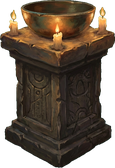
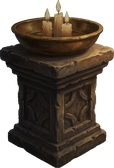
Deel 2: staf-glinster op de bol (hoger + kleiner), altaar met kaarsen in de schaal + schaduw links, Finn & tovenaar groter

diff --git a/games/ravenholt-deel2/js/data.js b/games/ravenholt-deel2/js/data.js
@@ -14,7 +14,7 @@ const GAME = {
   title:      { nl: 'Fluisteringen van Ravenholt — Deel 2', en: 'Whispers of Ravenholt — Part 2' },
   titleLines: { nl: ['Fluisteringen', 'van Ravenholt', '· Deel 2 ·'], en: ['Whispers of', 'Ravenholt', '· Part 2 ·'] },
   startScene: 'courtyard',
-  assetVer: '185',
+  assetVer: '187',
 
   /* Finn — vaste figuur: roodharige jongen, blauwe kapmantel, leren tas, houten staf.
      idle = hero, lopen = 4-frame loopsheet (heroWalkSheet), zwaaien = heroWave.
@@ -802,7 +802,7 @@ const GAME = {
       },
       playerStart: { x: 300, y: 298 },
       spawnFrom: { garden: { x: 300, y: 298 } },
-      depth: { far: 210, near: 320, sFar: 0.86, sNear: 1.32 },   // Finn duidelijk groter in de zaal
+      depth: { far: 210, near: 320, sFar: 0.96, sNear: 1.46 },   // Finn duidelijk groter in de zaal
       walkable: [
         { x: 64, y: 250, w: 440, h: 58 },                  // open vloer/tapijt voor de lessenaar
         { x: 150, y: 224, w: 280, h: 30 }                  // smalle strook richting de lessenaar
@@ -815,11 +815,11 @@ const GAME = {
       overlays: [],
       fx: {
         bookSparkle: { x: 278, y: 150, r: 24, doneFlag: 'altarSolved' },   // het boek geeft licht: zachte gloed + sparkles, tot het zegel is opgelost
-        mageGlow: { x: 150, y: 205, r: 15, a: 0.42, hideFlag: 'wizardTripping' },   // paars-blauwe gloed van de tovenaarsstaf (dooft tijdens de trance)
-        candleBowl: { x: 110, y: 262, w: 46, h: 66, img: 'assets/art/altar-censer.png', smokeFlag: 'wizardTripping' }   // klein altaar met bronzen schaal + kaarsen links van de tovenaar; lichte rook altijd, zwaar zodra de paddenstoelen erin gaan
+        mageGlow: { x: 142, y: 129, r: 10, a: 0.42, sparkle: true, hideFlag: 'wizardTripping' },   // paars-blauwe glinster op de bol van de tovenaarsstaf (dooft tijdens de trance)
+        candleBowl: { x: 94, y: 262, w: 46, h: 66, img: 'assets/art/altar-censer.png', smokeFlag: 'wizardTripping' }   // klein altaar met bronzen schaal + kaarsen links van de tovenaar; lichte rook altijd, zwaar zodra de paddenstoelen erin gaan
       },
       npcs: [
-        { id: 'librarian', sprite: 'librarian', blinkSprite: 'librarian-sleep', idleBreathe: true, x: 190, y: 263, scale: 0.9, aweSwayMul: 3.2, flip: false, filter: 'brightness(0.84) saturate(1.14)', aweSprite: 'librarian-sleep', aweFlag: 'wizardTripping' },   // de boze tovenaar (mad-wizard), kijkt naar RECHTS; knippert af en toe met de ogen; na de paddenstoelen valt hij in trance/slaap (ogen dicht) + dromerig waggelen
+        { id: 'librarian', sprite: 'librarian', blinkSprite: 'librarian-sleep', idleBreathe: true, x: 192, y: 264, scale: 1.02, aweSwayMul: 3.2, flip: false, filter: 'brightness(0.84) saturate(1.14)', aweSprite: 'librarian-sleep', aweFlag: 'wizardTripping' },   // de boze tovenaar (mad-wizard), kijkt naar RECHTS; knippert af en toe met de ogen; na de paddenstoelen valt hij in trance/slaap (ogen dicht) + dromerig waggelen
         { id: 'libRaven', sprite: 'ravenPerch', x: 366, y: 155, scale: 1.02, flip: false, peck: true, peckAmt: 0.3 }                               // de raaf op de vensterbank — flink groter, 5px lager
       ],
       worldItems: [],

diff --git a/games/ravenholt-deel2/js/engine.js b/games/ravenholt-deel2/js/engine.js
@@ -1604,7 +1604,7 @@
       const W = cb.w || 44, H = cb.h || 64;
       const topY = baseY - H;
       if (ready(cb._img)) fctx.drawImage(cb._img, cx - W / 2, topY, W, H);
-      const bowlY = topY + H * 0.30;                    // hoogte van de schaal-rand
+      const bowlY = topY + H * 0.24;                    // hoogte van de kaars-vlammen in de schaal
       const heavy = cb.smokeFlag && state.flags[cb.smokeFlag];
       /* smeulende paddenstoelen-gloed in de schaal (alleen zwaar) */
       if (heavy) {
@@ -1614,8 +1614,8 @@
           fctx.fillRect(gx, bowlY - 1, 2, 2);
         }
       }
-      /* flikkerende vlammetjes-effect op de kaarsen (rond de rand) */
-      const cands = [[-0.28, 0.02], [0, -0.04], [0.28, 0.02]];
+      /* flikkerende vlammetjes-effect op de drie kaarsen ín de schaal (geclusterd in het midden) */
+      const cands = [[-0.10, 0.03], [0, -0.03], [0.10, 0.03]];
       for (let i = 0; i < cands.length; i++) {
         const fx0 = cx + cands[i][0] * W, fy0 = bowlY + cands[i][1] * H;
         const fl = 0.6 + 0.4 * Math.sin(now / (110 + i * 41) + i * 2);
@@ -1660,8 +1660,15 @@
       gc.addColorStop(0, `rgba(210,190,255,${(0.7 * (0.7 + 0.3 * pulse)).toFixed(3)})`);
       gc.addColorStop(1, 'rgba(170,140,255,0)');
       fctx.fillStyle = gc; fctx.fillRect(m.x - rc, m.y - rc, rc * 2, rc * 2);
-      // af en toe een fonkel bij de orb
-      if (((now / 500) | 0) % 2 === 0) twinkle(m.x + 2, m.y - 2, 0.4 + 0.4 * pulse, '200,180,255');
+      // glinster-effect: meerdere paars/blauwe fonkels rond de bol, elk in eigen ritme
+      if (m.sparkle) {
+        const SP = [[0, -3], [3, 1], [-3, 1], [1, -1]];
+        for (let i = 0; i < SP.length; i++) {
+          const ta = 0.25 + 0.6 * (0.5 + 0.5 * Math.sin(now / (360 + i * 90) + i * 1.7));
+          if (ta < 0.32) continue;
+          twinkle(m.x + SP[i][0] + Math.sin(now / 700 + i) * 1.5, m.y + SP[i][1] + Math.cos(now / 820 + i) * 1.5, ta, i % 2 ? '190,170,255' : '150,190,255');
+        }
+      } else if (((now / 500) | 0) % 2 === 0) twinkle(m.x + 2, m.y - 2, 0.4 + 0.4 * pulse, '200,180,255');
     }
     if (fx.emberGlow && !(fx.emberGlow.doneFlag && state.flags[fx.emberGlow.doneFlag])) {
       const e = fx.emberGlow;

diff --git a/games/ravenholt-deel2/index.html b/games/ravenholt-deel2/index.html
@@ -26,7 +26,7 @@
   <link rel="preconnect" href="https://fonts.googleapis.com">
   <link rel="preconnect" href="https://fonts.gstatic.com" crossorigin>
   <link href="https://fonts.googleapis.com/css2?family=Crimson+Pro:ital,wght@0,400;0,600;1,400&family=Pixelify+Sans:wght@400;600&display=swap" rel="stylesheet">
-  <link rel="stylesheet" href="css/style.css?v=185">
+  <link rel="stylesheet" href="css/style.css?v=187">
   <script type="application/ld+json">
   {
     "@context": "https://schema.org",
@@ -125,7 +125,7 @@
   </div>
 
   <div id="title-screen" class="overlay title">
-    <img class="title-bg" src="assets/art/title.jpg?v=185" alt="Whispers of Ravenholt" onerror="this.remove()">
+    <img class="title-bg" src="assets/art/title.jpg?v=187" alt="Whispers of Ravenholt" onerror="this.remove()">
     <div class="title-content">
       <h1 id="title-h1" hidden><span>Whispers of</span><br><span>Ravenholt</span></h1>
       <p id="title-sub" class="subtitle" hidden>Een point-and-click avontuur</p>
@@ -146,7 +146,7 @@
 
   <div id="win-screen" class="overlay" hidden>
     <div class="overlay-card panel">
-      <img class="win-banner" src="assets/art/win-deel2.jpg?v=185" alt="" onerror="this.remove()">
+      <img class="win-banner" src="assets/art/win-deel2.jpg?v=187" alt="" onerror="this.remove()">
       <h1 id="win-h1">Deel 1 uitgespeeld!</h1>
       <p class="intro" id="winText"></p>
       <button id="replayBtn" class="gold-btn">Opnieuw spelen</button>
@@ -314,10 +314,10 @@
     </div>
   </div>
 
-  <script src="js/sprites.js?v=185"></script>
-  <script src="js/scenes.js?v=185"></script>
-  <script src="js/data.js?v=185"></script>
-  <script src="js/engine.js?v=185"></script>
+  <script src="js/sprites.js?v=187"></script>
+  <script src="js/scenes.js?v=187"></script>
+  <script src="js/data.js?v=187"></script>
+  <script src="js/engine.js?v=187"></script>
   <script>
     if ('serviceWorker' in navigator) {
       window.addEventListener('load', () => {

diff --git a/games/ravenholt-deel2/sw.js b/games/ravenholt-deel2/sw.js
@@ -4,7 +4,7 @@
    offline beschikbaar wilt hebben (optioneel — niet-vermelde bestanden worden bij
    eerste gebruik alsnog gecachet). */
 
-const CACHE = 'ravenholt2-v185';
+const CACHE = 'ravenholt2-v187';
 
 const PRECACHE = [
   './',
